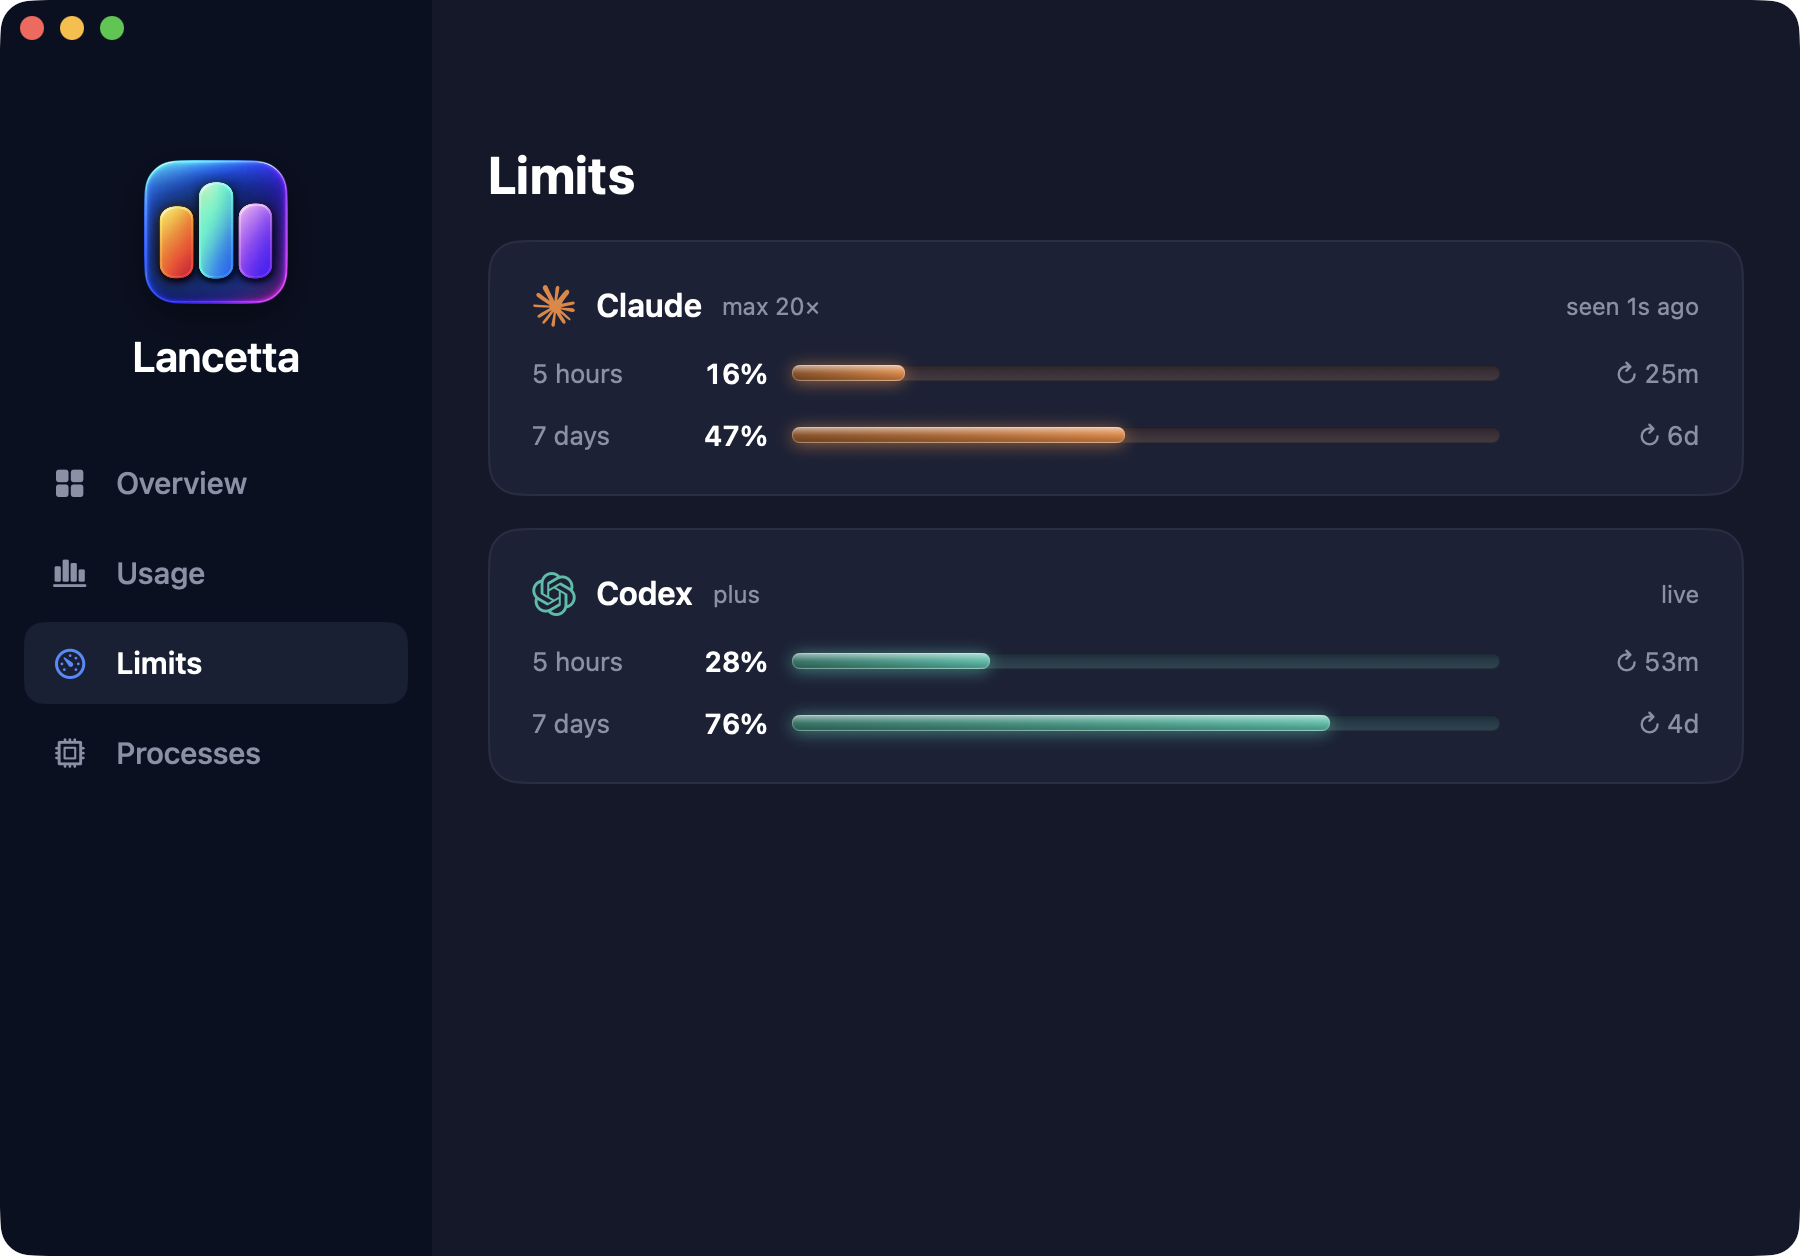
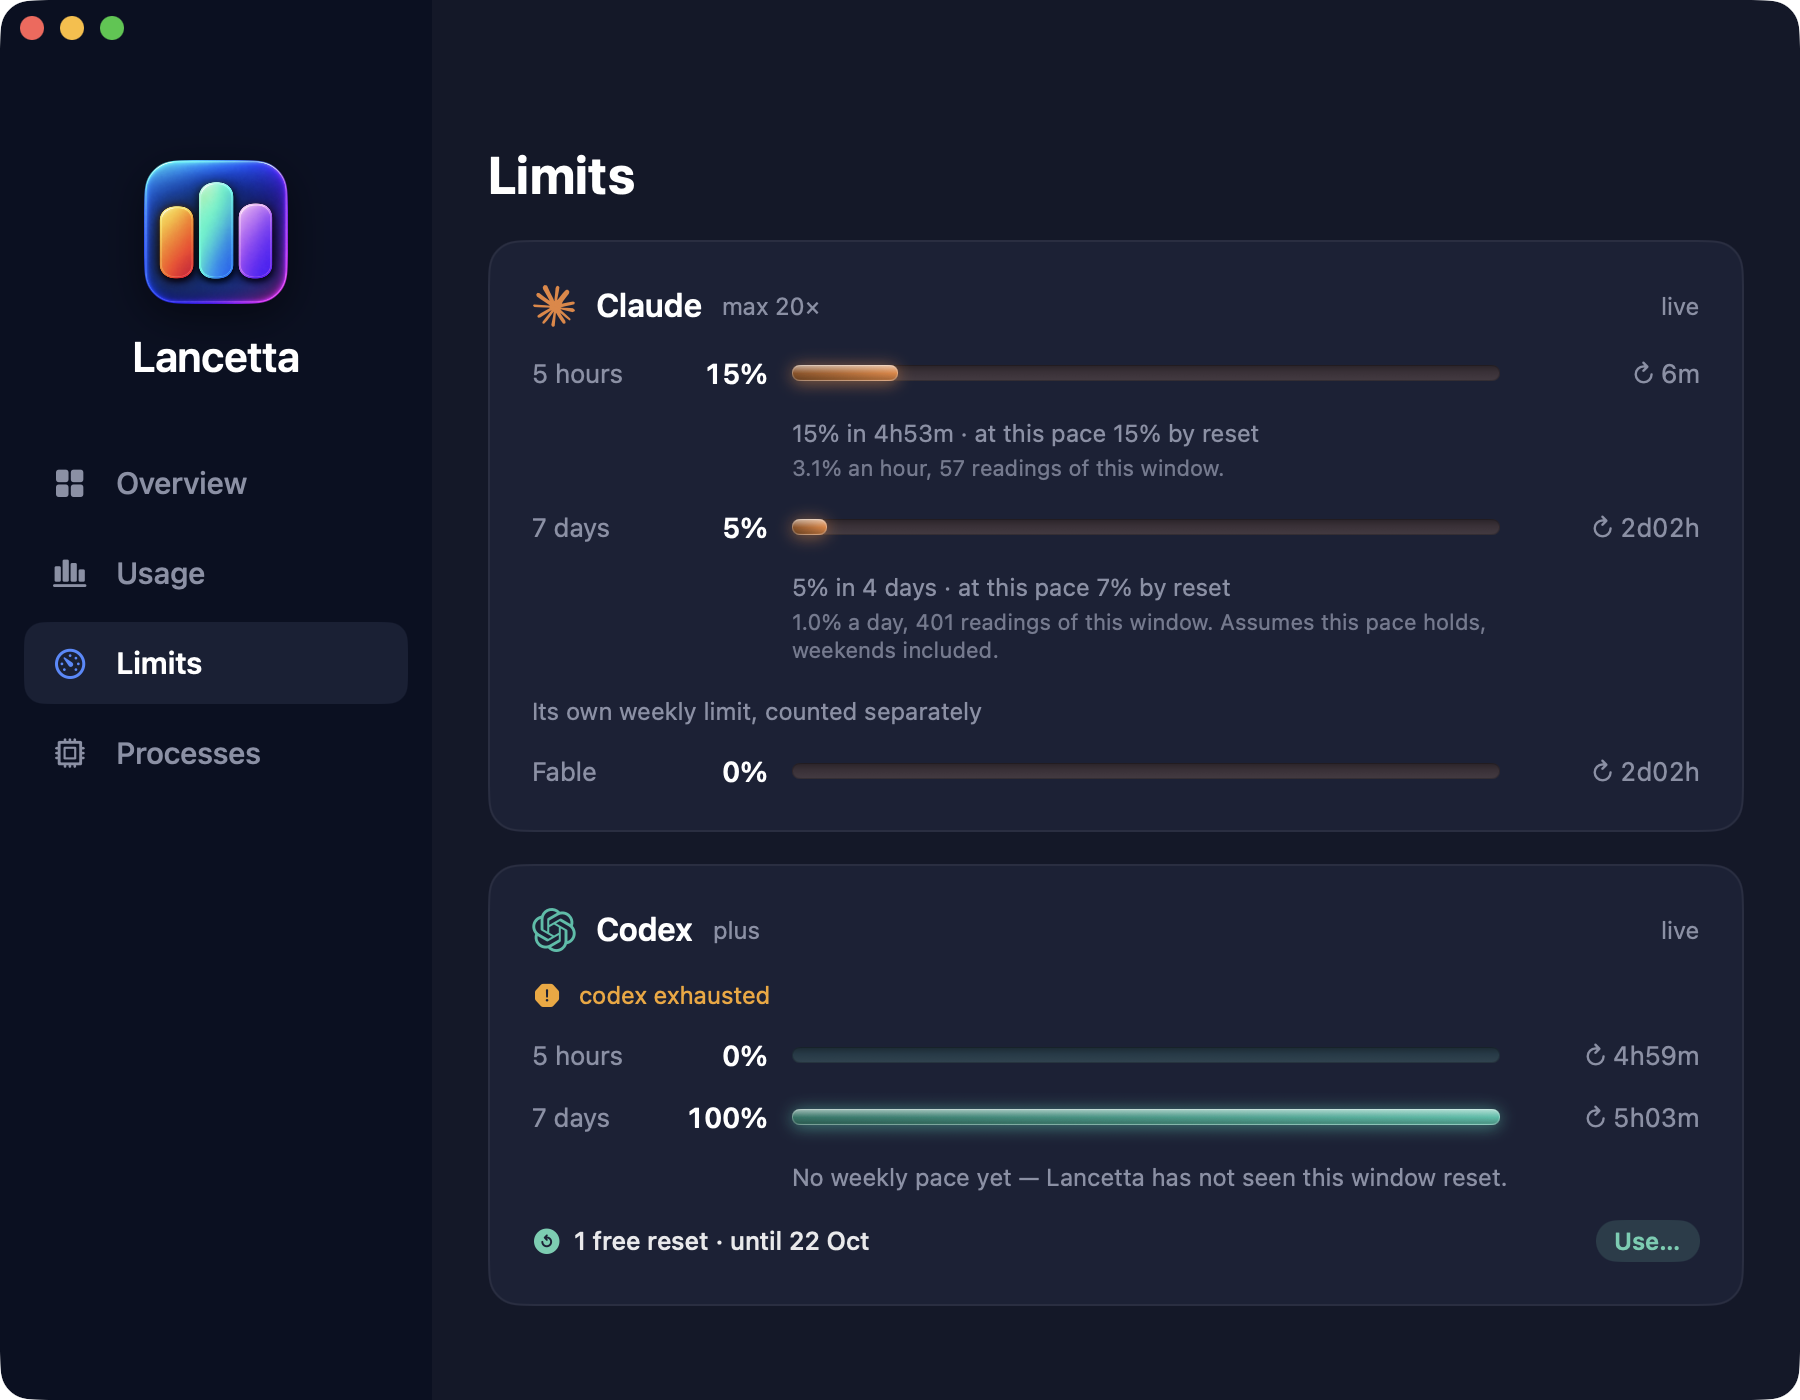
docs: reshoot the Limits pane from 0.11.0, with both agents
The live shot was from 0.6: no pace lines, no free reset. This one has
Claude's pace and its Fable limit, and Codex's free-reset row with
Use... . It is 900x700 points rather than 900x628, because the Codex
card was cut off at the old height; the frame is width-led, so only
its height changes. The hero line said "four windows" beside a picture
showing five, so it now says every window.

diff --git a/components/HeroStage/HeroStage.tsx b/components/HeroStage/HeroStage.tsx
@@ -157,10 +157,10 @@ const frames: Frame[] = [
   },
   {
     src: '/screenshot-window-limits.png',
-    alt: 'The Limits pane of the Lancetta window: Claude Code seen a second ago and Codex live, each with its 5-hour and 7-day bar and the time it resets',
+    alt: 'The Limits pane of the Lancetta window: Claude Code and Codex, both live. Claude’s 5-hour and 7-day bars each carry the line saying where the window ends at the current rate, with the rate and the readings behind it, and its separate Fable limit sits below; Codex, spent for the week, shows the free reset it holds, with a Use… button',
     eyebrow: 'In detail',
     title: 'Live, or seen a moment ago.',
-    body: 'Two agents, four windows, the reset time for each — and beside every reading, when it was last true. A number with no timestamp is a number you cannot trust.',
+    body: 'Two agents, every window, the reset time for each — and beside every reading, when it was last true. A number with no timestamp is a number you cannot trust.',
     href: '/docs/how-it-reads',
     linkLabel: 'How it reads each agent',
   },
